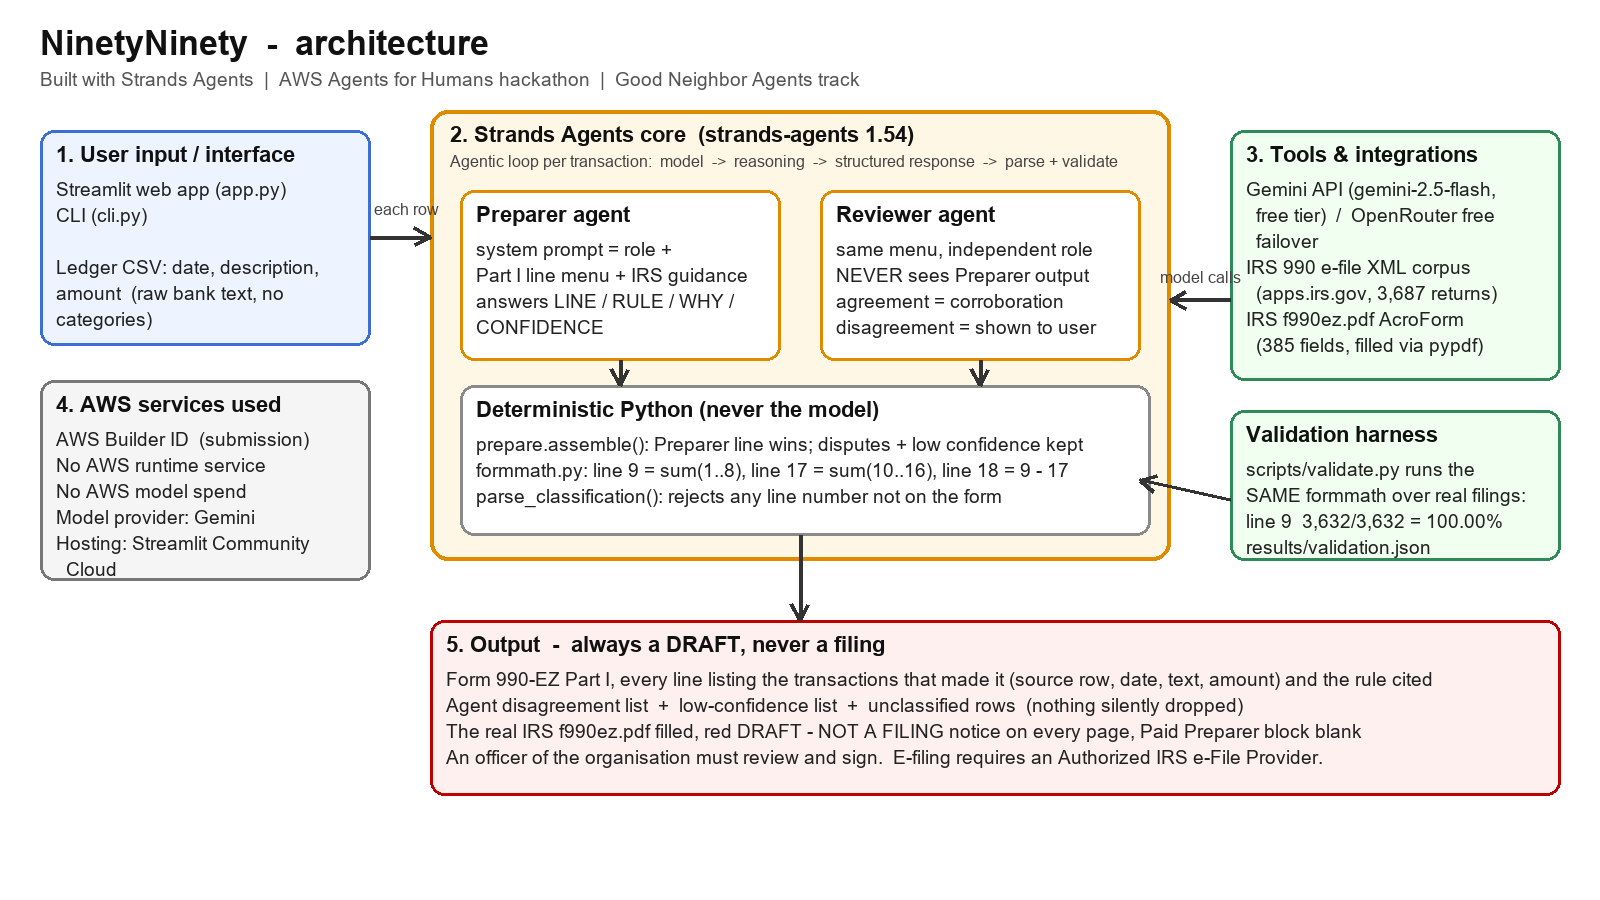
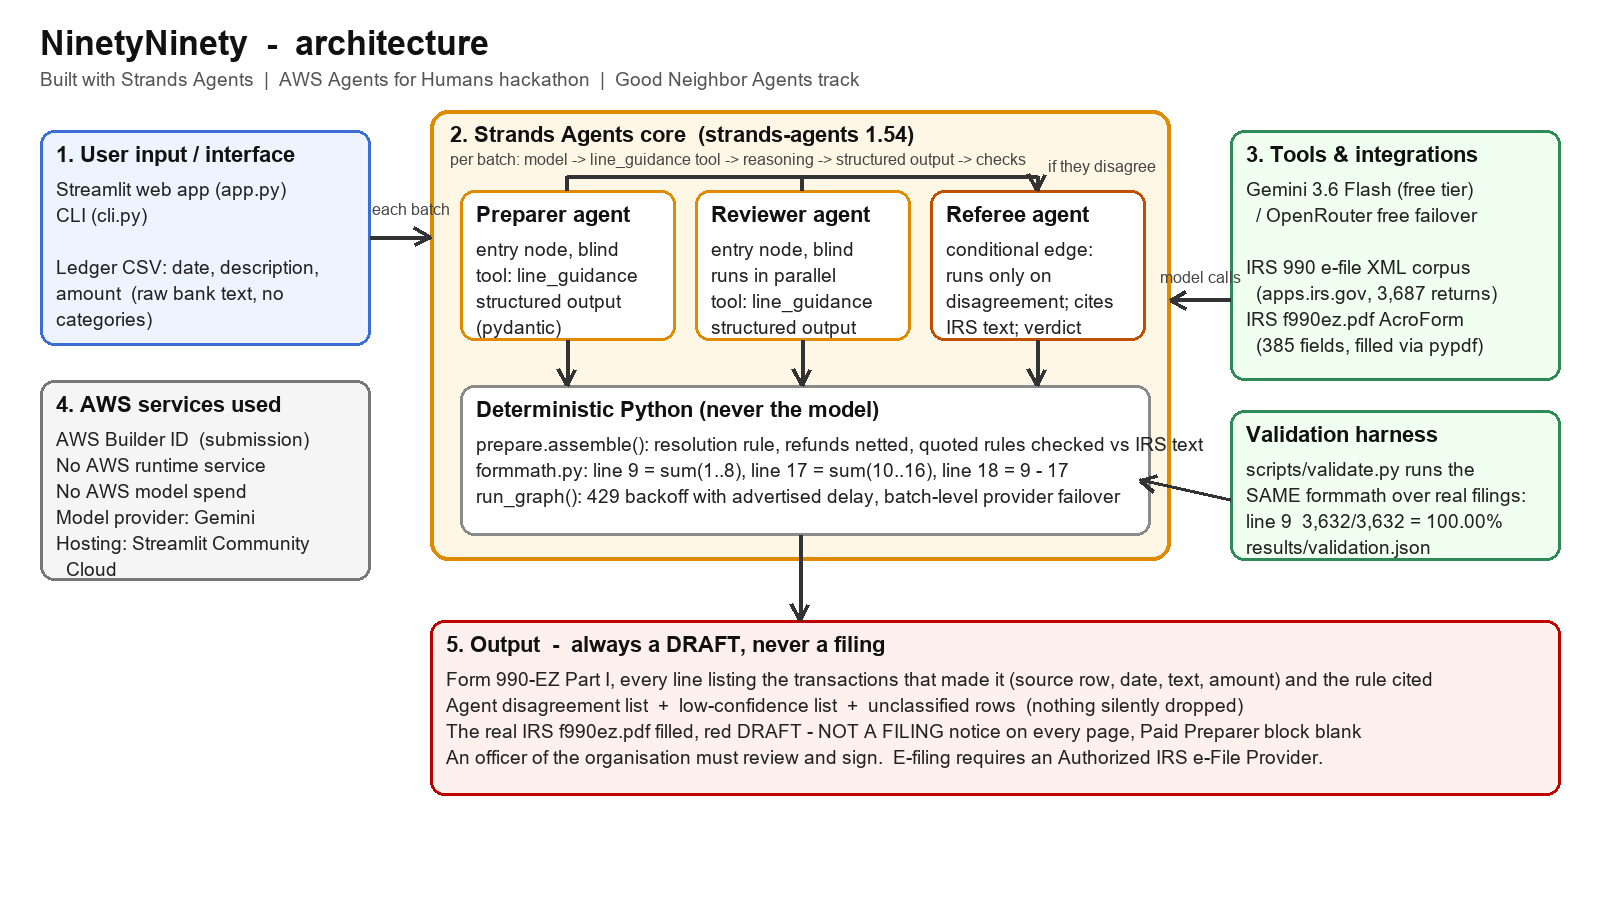
docs: describe the Strands graph, tool, referee, provider failover and disclosure
Claude-Session: https://claude.ai/code/session_01PD8a4wCfzw3qV95vkAe39A

diff --git a/README.md b/README.md
@@ -28,10 +28,11 @@ All three mismatches are real filed returns whose own stated totals disagree wit
 
 ![Architecture](docs/architecture.png)
 
-1. **Ledger in.** A CSV of `date, description, amount`. Raw bank text, no categories.
-2. **Two Strands Agents, independently.** The **Preparer** classifies each transaction onto a Form 990-EZ Part I line and cites the rule from the IRS instructions. The **Reviewer** classifies the *same* transaction without ever seeing the Preparer's reasoning. Agreement is corroboration. Disagreement is shown to the user, never silently resolved.
-3. **Python does every total.** The model classifies and explains. It never adds. Lines 9, 17 and 18 are computed in `formmath.py`, the same module the validation harness runs over real filings. That is why the accuracy number above means something.
+1. **Ledger in.** A CSV of `date, description, amount`. Raw bank text, no categories. Rows go through the graph in batches of twelve.
+2. **One Strands Agents graph per batch.** The **Preparer** and the **Reviewer** are two entry nodes of a `GraphBuilder` graph. Strands hands each entry node only the rows, so the Reviewer never sees the Preparer's reasoning, and the two run in parallel. Both call a real Strands tool, `line_guidance`, which returns the IRS instruction text for a Part I line, and both answer with structured output (pydantic). A **Referee** node hangs off a conditional edge and runs only when the two disagree on a row; it must call `line_guidance` on both candidate lines and returns a verdict with its reason. Every disagreement is shown with all three opinions and which line went on the form. Nothing is resolved silently.
+3. **Python checks the model.** Every rule an agent quotes is compared, word for word, against the IRS guidance the tool returned; a rule that is not in the text is flagged. Money flowing against a line (a refund) is netted, not added, and flagged. Lines 9, 17 and 18 are computed in `formmath.py`, the same module the validation harness runs over real filings. The model never adds.
 4. **The real IRS PDF.** Amounts land in the actual `f990ez.pdf` AcroForm fields, and every page carries a red **DRAFT, NOT A FILING** notice.
+5. **The trace is on screen.** Per batch: which nodes ran, in what order, how many tool calls, whether the Referee was needed, and which provider answered.
 
 ## Run it
 
@@ -47,7 +48,9 @@ Web UI: `streamlit run app.py`
 
 Tests: `PYTHONPATH=src python -m pytest`
 
-Model providers: Gemini (free tier, no card) first, OpenRouter free models as failover. Configured in `src/ninetyninety/config.py`. No AWS spend.
+## Model providers
+
+Gemini 3.6 Flash (free tier, no card) first; OpenRouter free models as failover. Both configured in `src/ninetyninety/config.py`, keys in `.env` (see `.env.example`). On a 429 the run sleeps for the delay the provider advertises and retries; after three tries the whole batch fails over to the next provider. No AWS spend, no paid API.
 
 ## Live demo
 
@@ -61,6 +64,10 @@ _Deploying to Streamlit Community Cloud. URL will be added here._
 - **The demo ledger is synthetic.** `fixtures/demo_ledger.csv` is made up. The accuracy numbers above come from real IRS filings, never from that file.
 - **Classification is a model judgement.** The two-agent design surfaces uncertainty; it does not eliminate it. Low-confidence and disputed rows are flagged for a human.
 
+## Disclosure
+
+Third-party inputs: the public IRS blank form `f990ez.pdf`, the public IRS Form 990 e-file XML corpus, and the Strands Agents SDK. All project code was written during the submission period. `results/validation.json` lists EINs and organisation names exactly as the IRS publishes them in the e-file corpus.
+
 ## Layout
 
 ```
@@ -68,8 +75,8 @@ src/ninetyninety/
   lines.py        Part I line taxonomy, IRS XML element names, guidance text
   formmath.py     the only place totals are computed
   ledger.py       CSV in -> Transaction rows with source-row provenance
-  agents.py       Preparer and Reviewer (Strands Agents)
-  prepare.py      classify every row, assemble Part I, record disagreements
+  agents.py       the Strands graph: Preparer, Reviewer, Referee, line_guidance tool
+  prepare.py      batch the ledger through the graph, back off on 429, fail over, assemble Part I
   pdffill.py      fill the real IRS AcroForm, stamp DRAFT on every page
   corpus/         IRS 990 e-file XML index, parser, validation harness
 cli.py            terminal entry point
